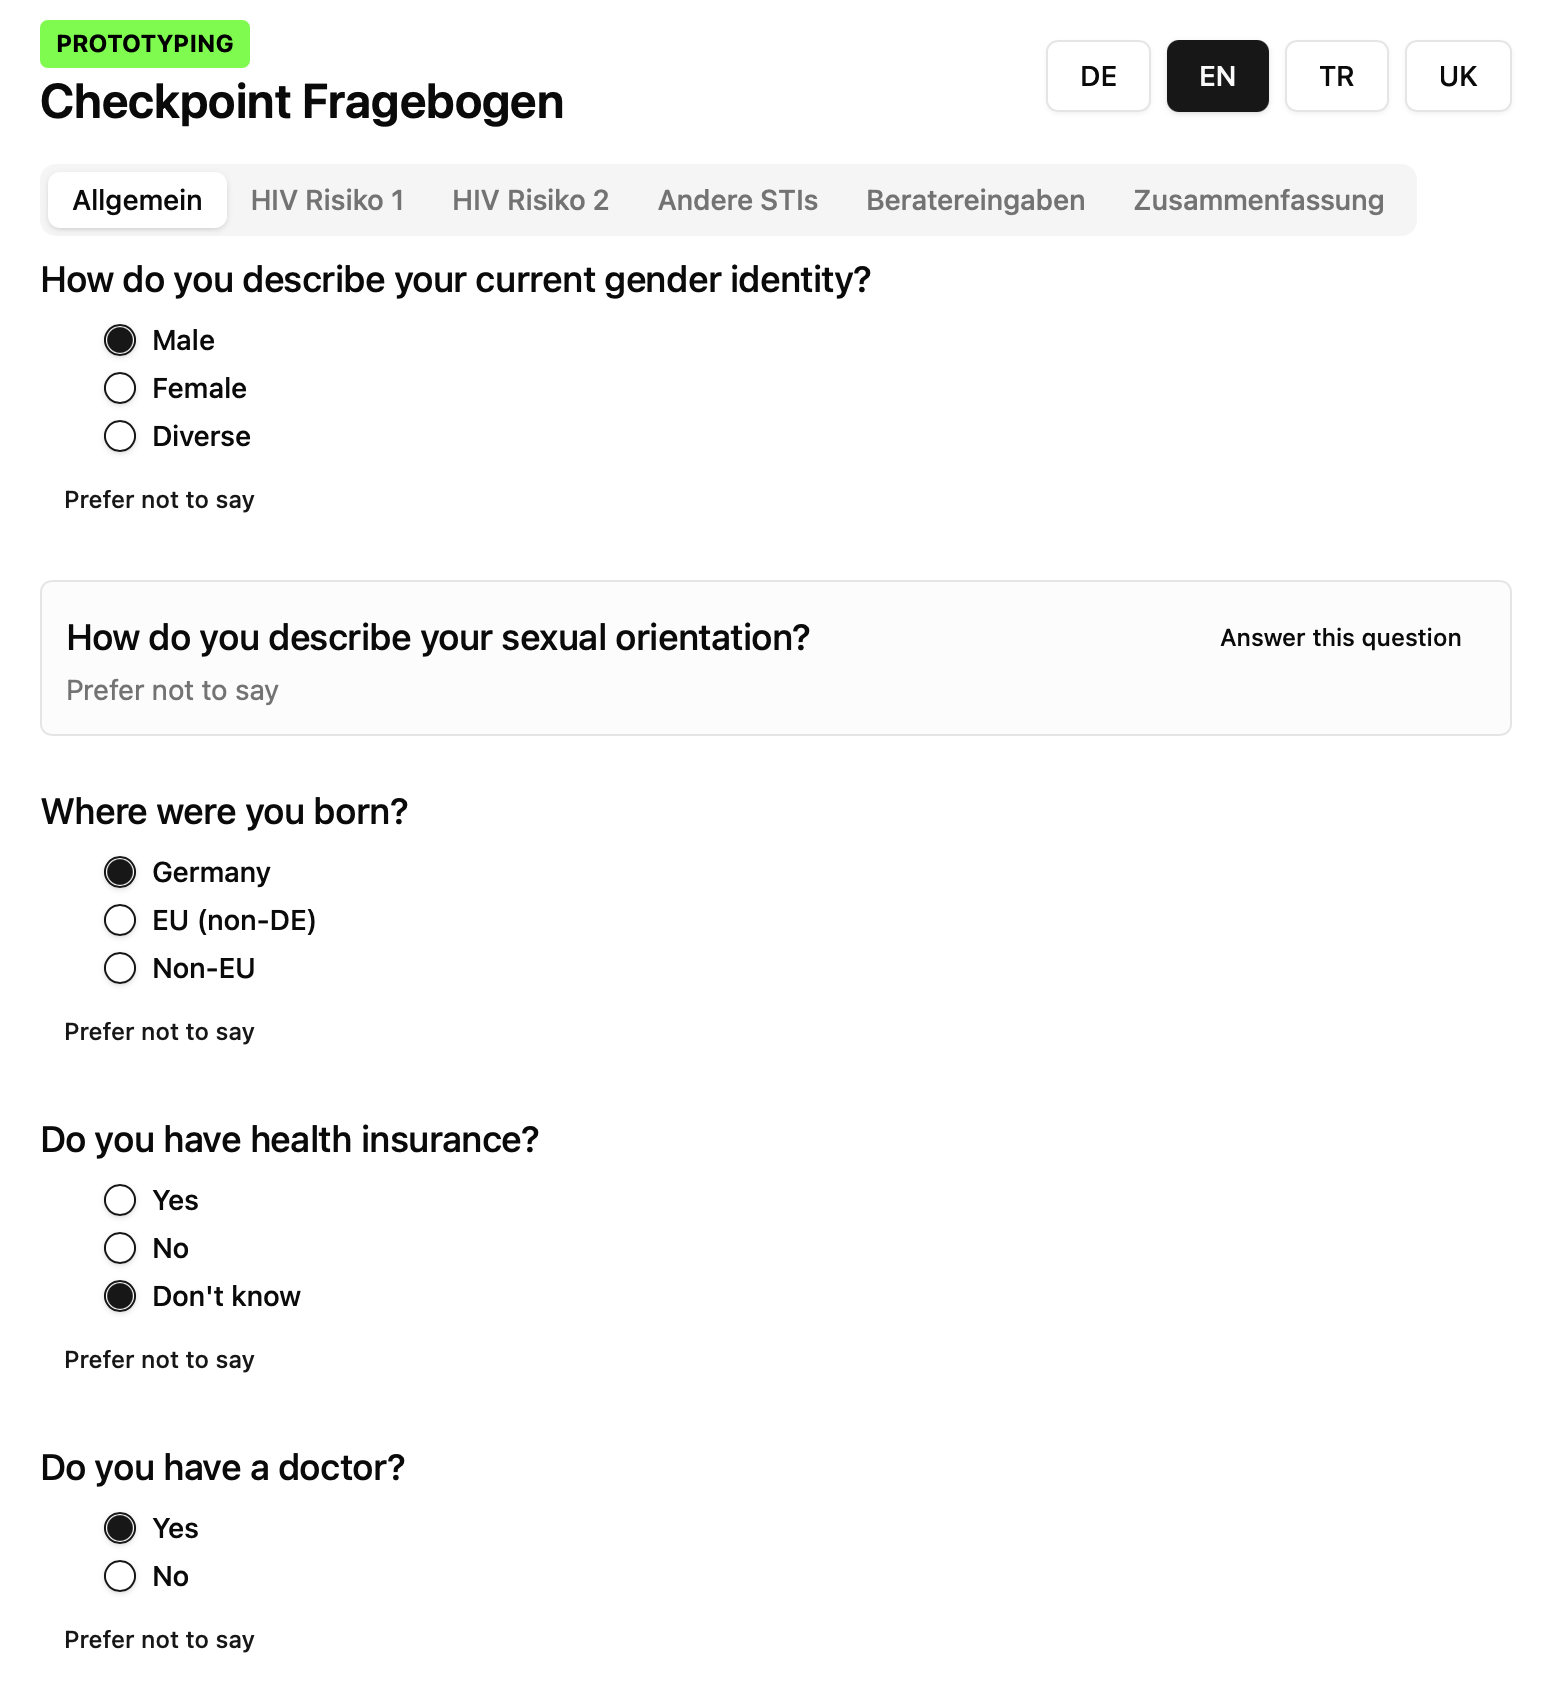
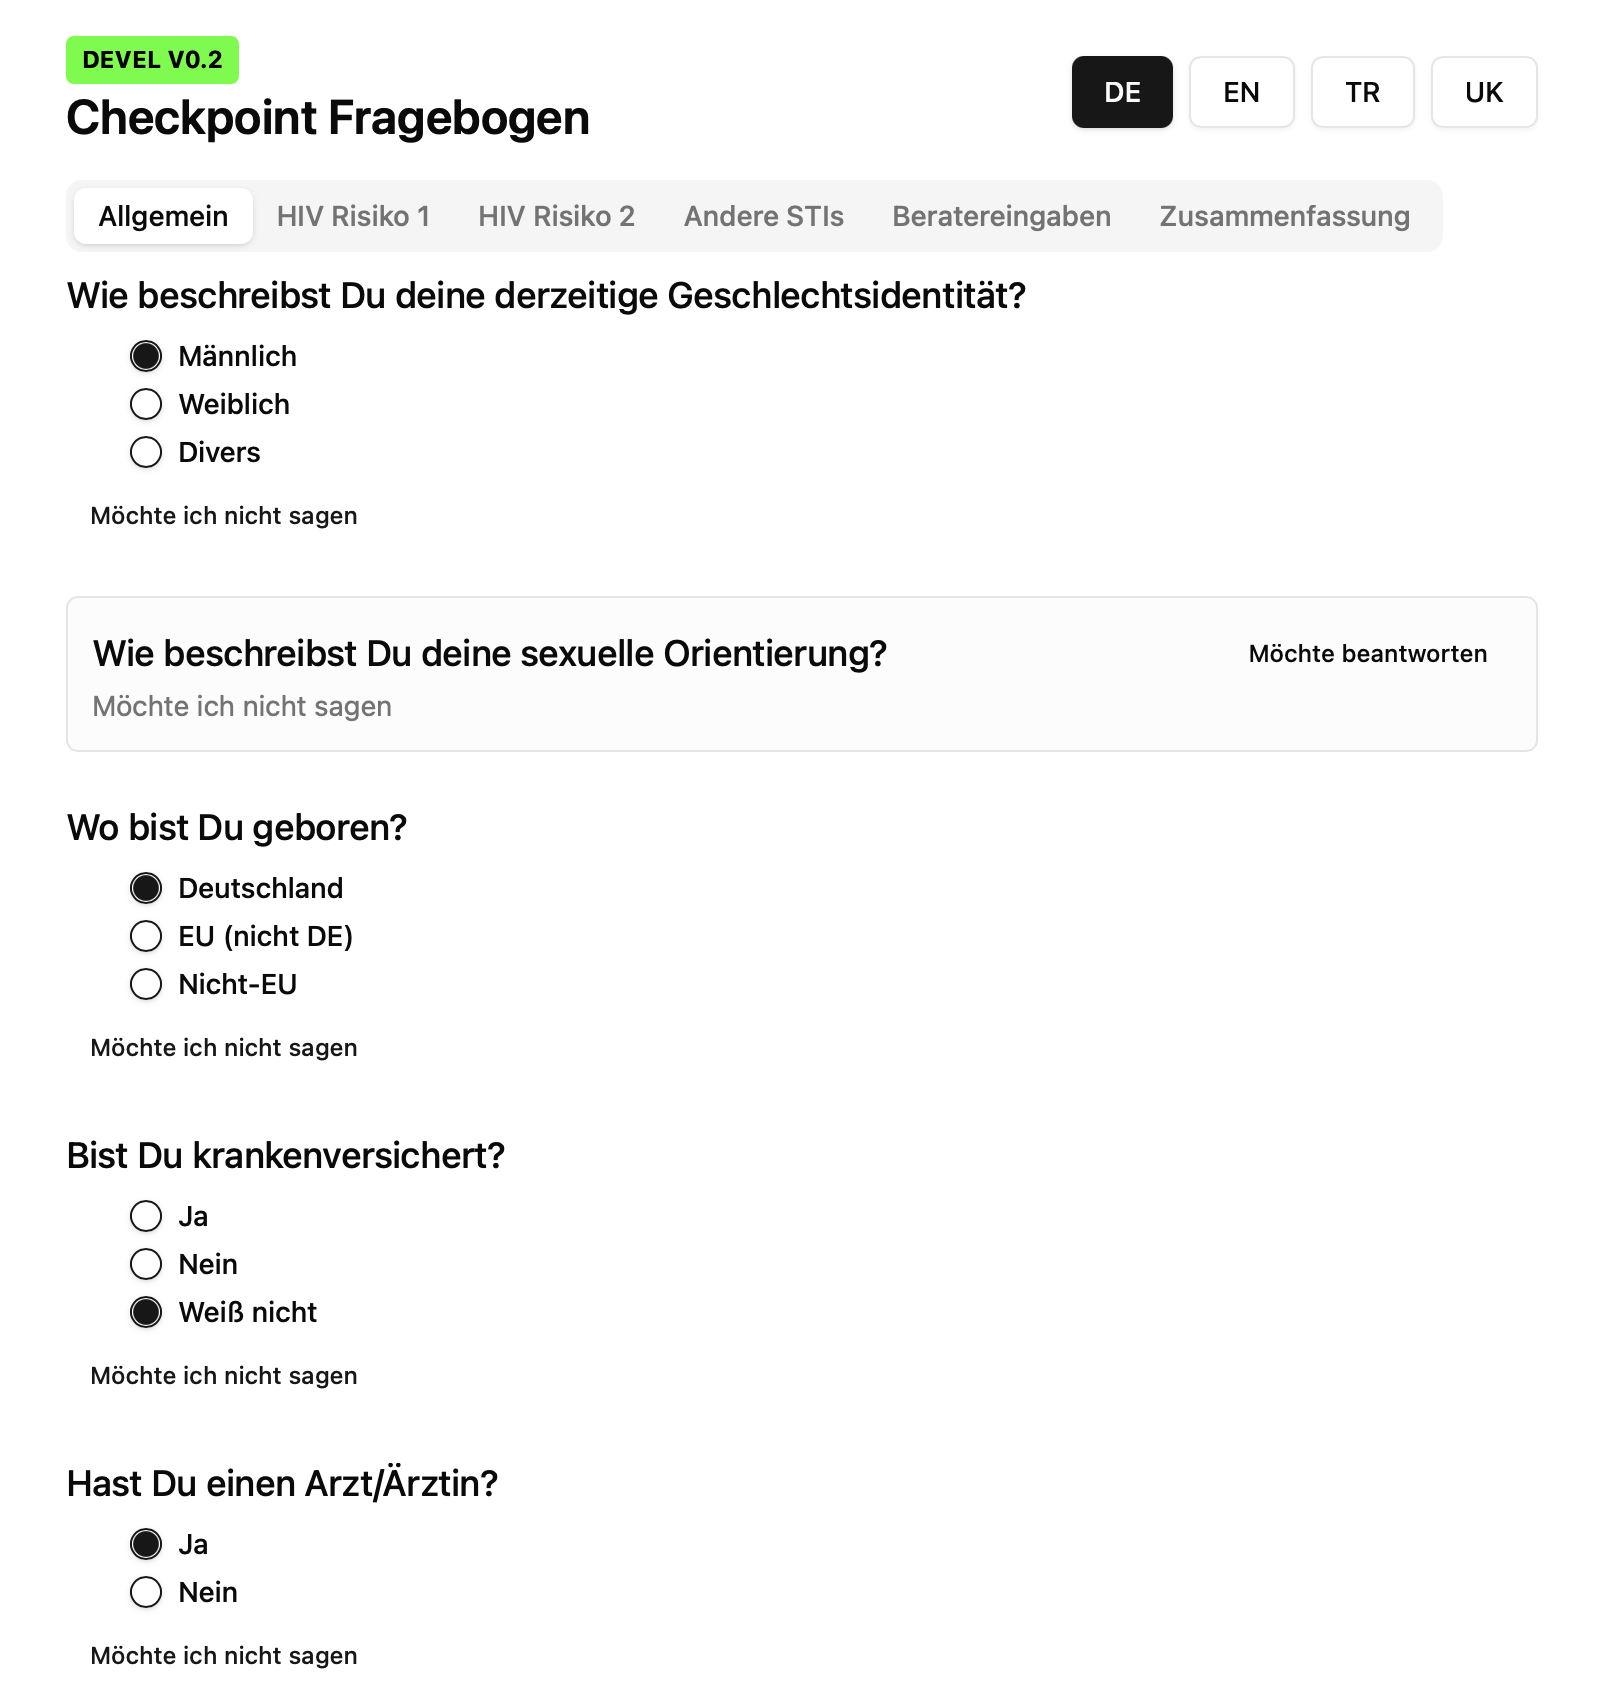
upd image - devel vs protot

diff --git a/src/components/q_ahd_wired.tsx b/src/components/q_ahd_wired.tsx
@@ -8,7 +8,7 @@ import { Button } from "@/components/ui/button";
 import { Input } from "@/components/ui/input";
 import { Textarea } from "@/components/ui/textarea";
 
-
+const CURR_VERSION = "v0.2";
 // ---- submission config ----
 const API_HOST = "192.168.10.108";
 const API_PORT = 8000;
@@ -568,7 +568,9 @@ async function submitResponses() {
     <div className="max-w-3xl mx-auto p-4 space-y-4">
       <header className="flex items-center justify-between">
         <div className="flex flex-col items-start">
-          <span className="text-xs font-bold uppercase text-black bg-neon-green px-2 py-1 rounded">Prototyping</span>
+          <span className="text-xs font-bold uppercase text-black bg-neon-green px-2 py-1 rounded">
+            DEVEL {CURR_VERSION}
+          </span>
           <h1 className="text-2xl font-semibold">Checkpoint Fragebogen</h1>
         </div>
         <div className="flex items-center space-x-2">
